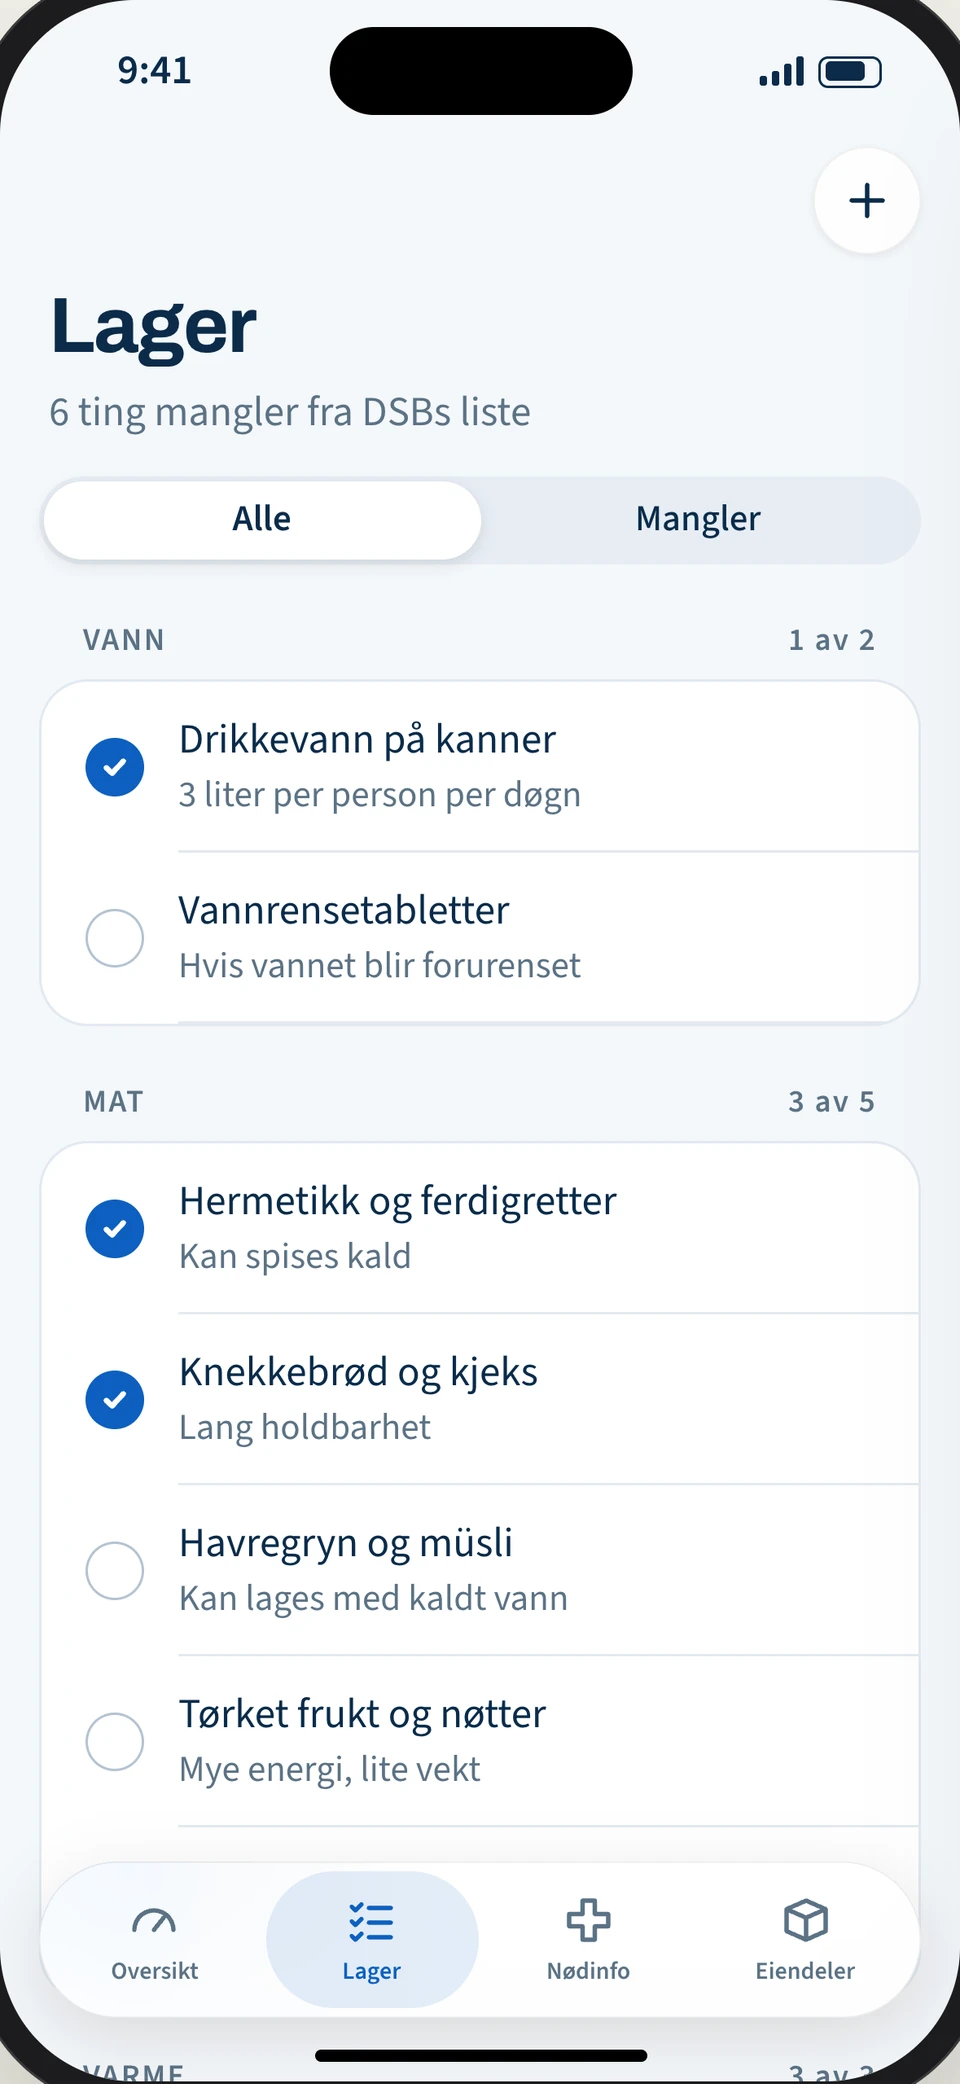
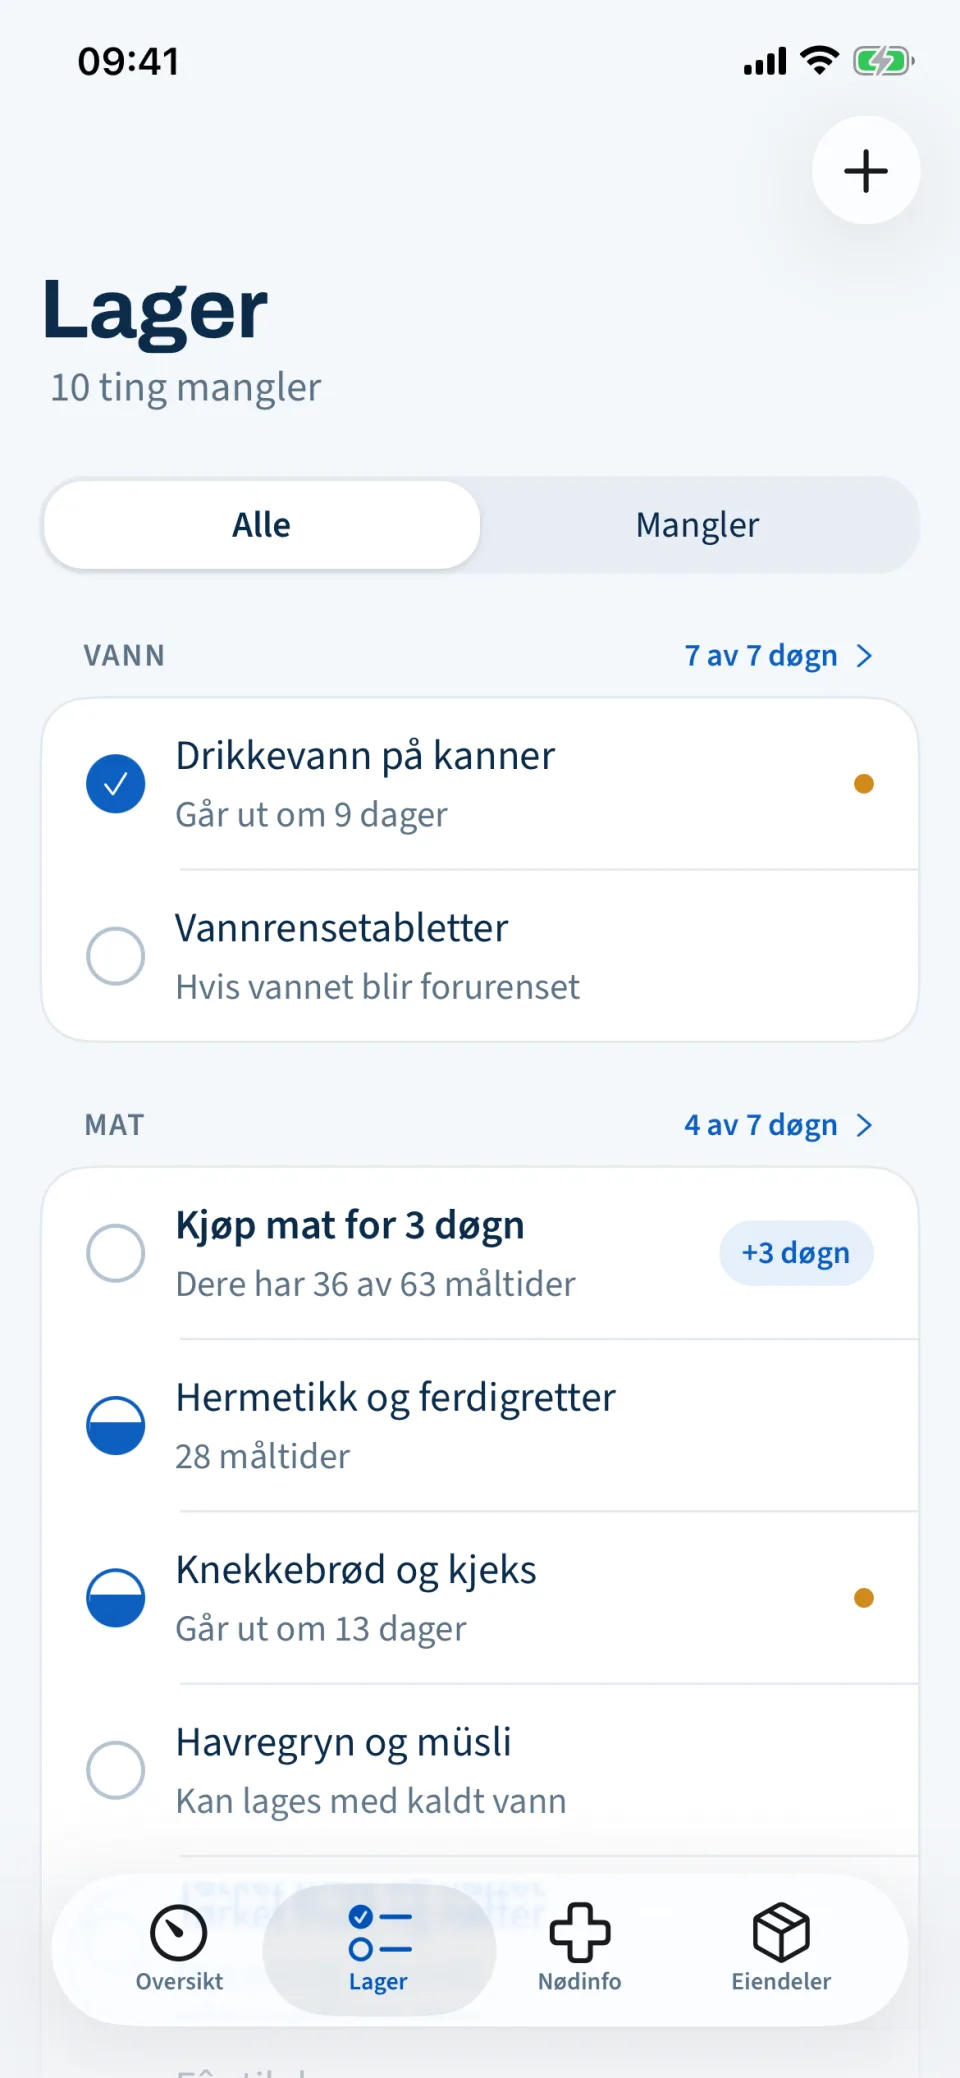
Real app screenshots on the website, and dev clients that don't need the signing key
The eight 1.0 screenshots on the website are now taken from the app in the
simulator instead of the design renders, which still showed «Kvartalssjekk»,
«Hopp over», the old days card and the removed «Reise» tab. kvartalssjekk.webp
becomes beredskapssjekk.webp; alt texts follow what each picture shows. The
Egenberedskap+ renders stay until that part is in the app.

This also completes 046016a, which already points index.astro at
beredskapssjekk.webp: the site didn't build without it. The demo household the
pictures are taken from (lib/demo-data.ts) and the onboarding fix found while
taking them (ticking water or food now moves the keyboard to its amount field)
went in with 986fb87, picked up by another session's commit.

Dev clients leave out the update signature check (UPDATE_SIGNING=off, set by the
development profiles and npm run ios/android), so Metro serves them without the
release key. Preview, production and eas update keep signing (docs/releasing.md).

diff --git a/apps/mobile/app.config.ts b/apps/mobile/app.config.ts
@@ -11,6 +11,14 @@ import type { ConfigContext, ExpoConfig } from 'expo/config';
  */
 const production = process.env.APP_VARIANT === 'production';
 
+/**
+ * Dev clients run JS from Metro, and a build that checks update signatures makes Metro sign
+ * every manifest with the release key. `UPDATE_SIGNING=off` leaves the check out of a dev
+ * client: set by the `development` profiles in eas.json and by `npm run ios` / `android`. Never
+ * set for preview, production or `eas update`, which must keep it (docs/releasing.md).
+ */
+const unsignedDevClient = process.env.UPDATE_SIGNING === 'off';
+
 export default ({ config }: ConfigContext): ExpoConfig => {
   const id = production ? 'no.htas.egenberedskap' : 'no.htas.egenberedskap.dev';
   const firebase = production ? 'prod' : 'test';
@@ -38,5 +46,12 @@ export default ({ config }: ConfigContext): ExpoConfig => {
       googleServicesFile: `./firebase/${firebase}/google-services.json`,
     },
     extra: { ...config.extra, variant: production ? 'production' : 'development' },
+    ...(unsignedDevClient && !production && { updates: withoutSigning(config.updates) }),
   };
 };
+
+function withoutSigning(updates: ExpoConfig['updates']): ExpoConfig['updates'] {
+  if (!updates) return updates;
+  const { codeSigningCertificate: _certificate, codeSigningMetadata: _metadata, ...rest } = updates;
+  return rest;
+}

diff --git a/LAUNCH.md b/LAUNCH.md
@@ -199,8 +199,8 @@ Checked in the iOS simulator on the test household: Oversikt, Lager, the check's
 
 ## 8. Website
 
-- [ ] Replace the «Kvartalssjekk» section in `apps/web/src/pages/index.astro` with «Beredskapssjekk» and its
-      choice of interval, once the app version that has it is out
+- [x] Replace the «Kvartalssjekk» section in `apps/web/src/pages/index.astro` with «Beredskapssjekk» and its
+      choice of interval (2026-10-10, ahead of the app on Mikkel's say; seen in the local preview, not deployed)
 - [ ] App Store and Google Play links
 - [x] Every claim checked against the app; false ones fixed (287df93)
 - [x] *(resolved: the innbo list, receipts and PDF are shown as free, df22ba5)* The Egenberedskap+ section sells the innbo list, receipts and PDF as paid, but the app lets
@@ -209,7 +209,9 @@ Checked in the iOS simulator on the test household: Oversikt, Lager, the check's
       promise, or say «ingen reklame eller sporing»
 - [x] «Lageret følger DSBs liste» → «bygger på DSBs liste», as the app says; «i Porsgrunn» depends on the company
       details
-- [ ] When the Kvartalssjekk section is replaced, also replace the hero alt text and `oversikt.webp`
+- [x] When the Kvartalssjekk section is replaced, also replace the hero alt text and `oversikt.webp` (2026-10-10:
+      the eight 1.0 screenshots are now from the app in the simulator, demo household from `lib/demo-data.ts`; the
+      three Egenberedskap+ ones are still design renders)
 - [ ] Deploy to the prod hosting site with the real domain; indexing on only there
 - [x] Domain `egenberedskapappen.no` (without the s) in place (Mikkel, 2026-10-10)
 - [ ] **(Tarjei)** Buy `egenberedskapsappen.no` (with the s, as the app is named); suggested as the main domain, with

diff --git a/docs/releasing.md b/docs/releasing.md
@@ -60,6 +60,11 @@ without it, for example by someone who gets into the Expo account, is rejected b
 
 The key is never uploaded: `eas update` signs on the Mac and sends only the signature. Builds don't need the key.
 
+Dev clients leave the signature check out (`UPDATE_SIGNING=off`, in `app.config.ts`), or Metro would need the key to
+serve every reload. It's set by the `development` and `development-simulator` profiles and by `npm run ios` /
+`npm run android` in `apps/mobile`. A plain `npx expo run:ios` builds a client that checks, which Metro then can't
+serve. Preview, production and `eas update` never set it, so they always sign and check.
+
 ### Publishing an update
 
 Only Mikkel publishes updates. Always use the script, which passes the key:
